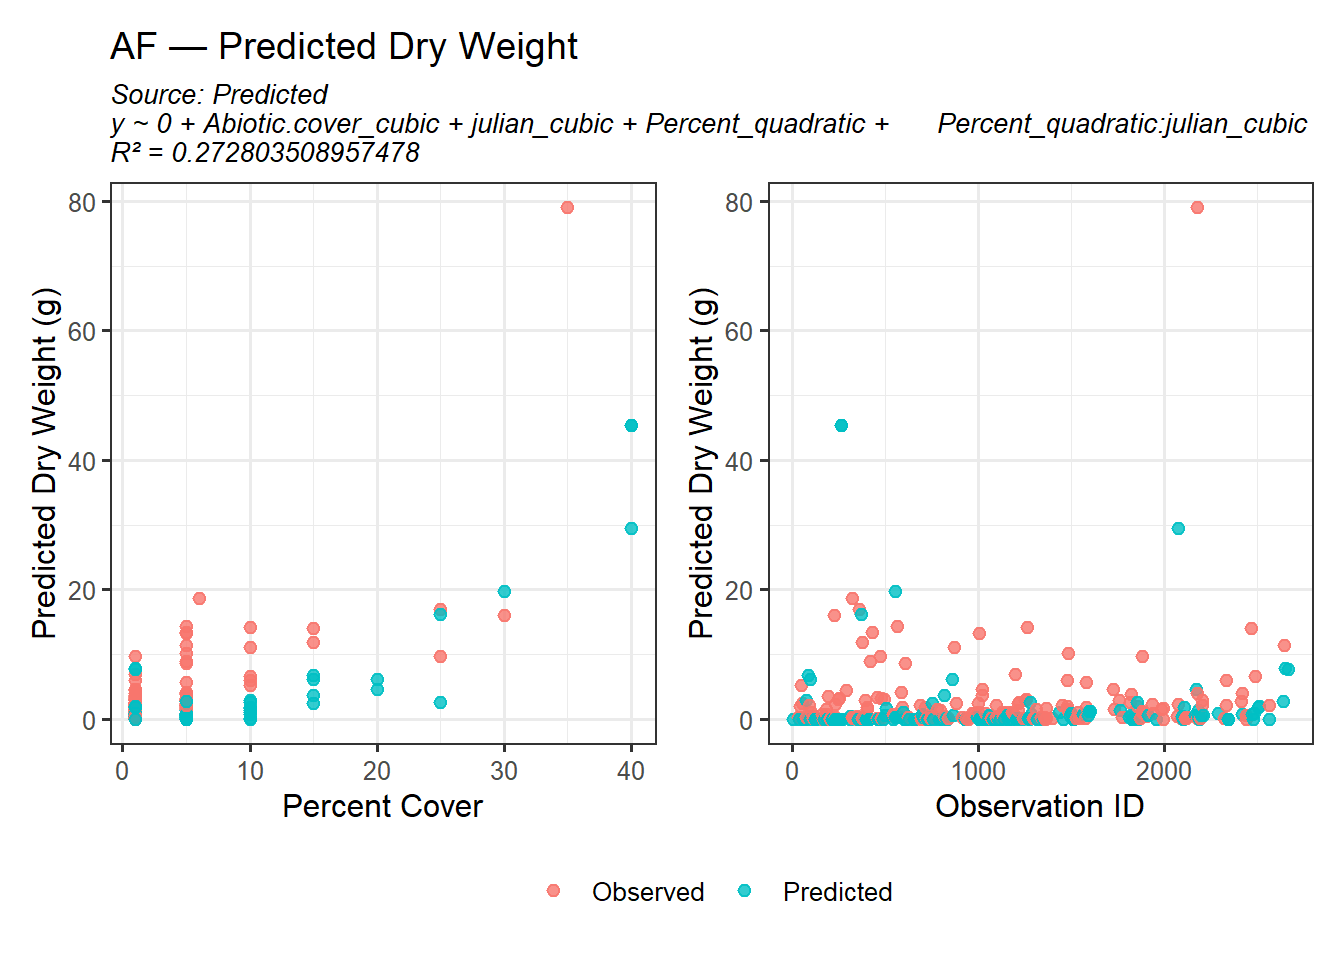
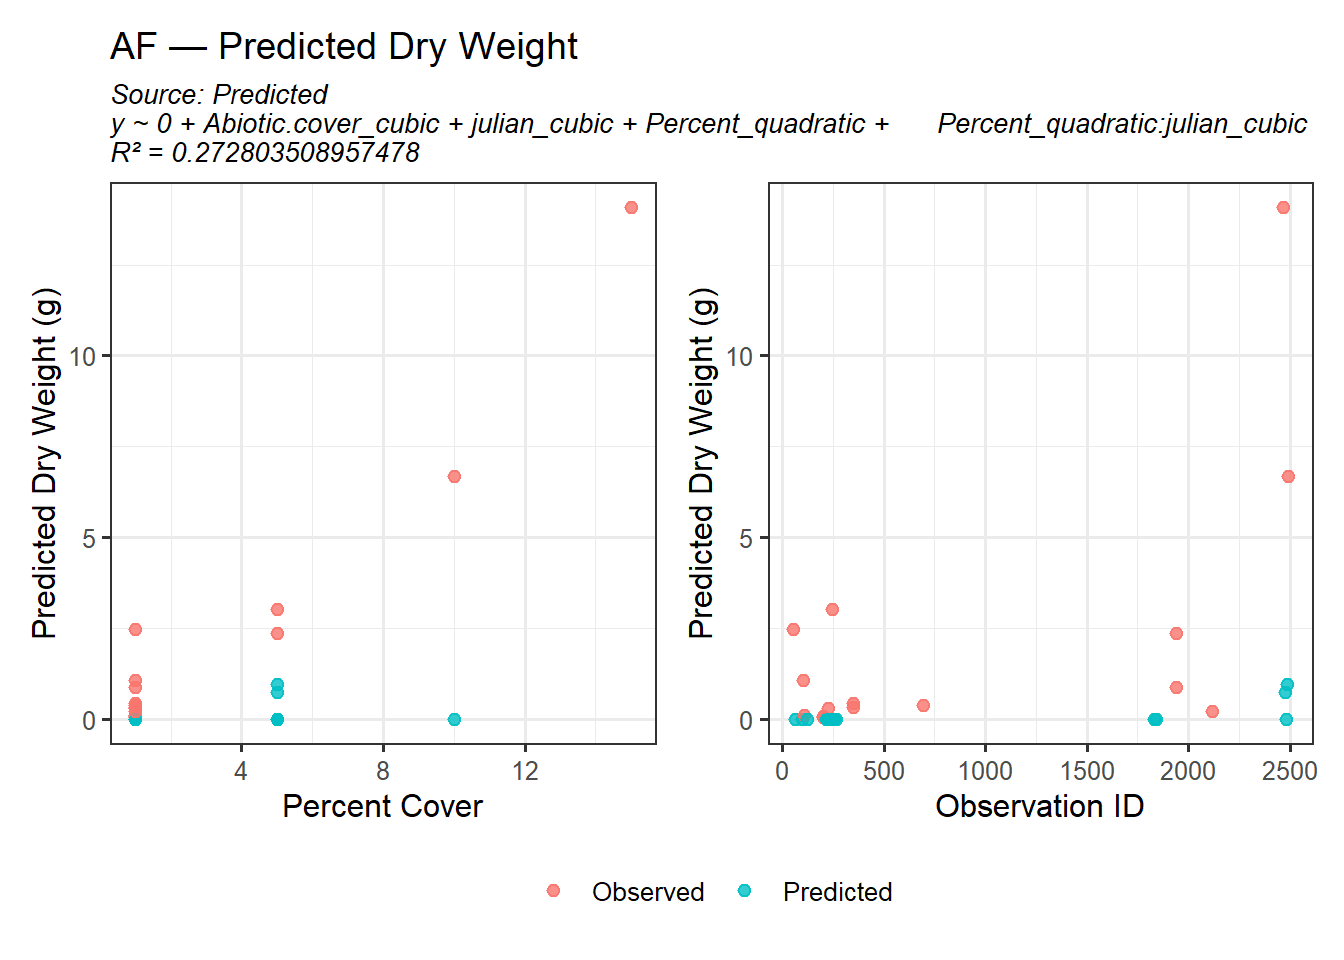
Removed wrong predicted points in AF and PF

diff --git a/docs/posts/post-with-code/edited.biomass.predictions.html b/docs/posts/post-with-code/edited.biomass.predictions.html
@@ -439,68 +439,75 @@ pre > code.sourceCode > span > a:first-child::before { text-decoration: underlin
 <details class="code-fold">
 <summary>Code</summary>
 <div class="sourceCode cell-code" id="cb4"><pre class="sourceCode r code-with-copy"><code class="sourceCode r"><span id="cb4-1"><a href="#cb4-1" aria-hidden="true" tabindex="-1"></a>fg_predictions_filtered <span class="ot">&lt;-</span> fg <span class="sc">%&gt;%</span></span>
-<span id="cb4-2"><a href="#cb4-2" aria-hidden="true" tabindex="-1"></a>  <span class="fu">mutate</span>(<span class="at">pred_source =</span> <span class="fu">ifelse</span>(pred_source <span class="sc">==</span> <span class="st">"Model_FunctionalGroup"</span>, <span class="st">"Predicted"</span>, pred_source)) <span class="sc">%&gt;%</span></span>
-<span id="cb4-3"><a href="#cb4-3" aria-hidden="true" tabindex="-1"></a>  <span class="fu">arrange</span>(FunctionalGroup)</span>
-<span id="cb4-4"><a href="#cb4-4" aria-hidden="true" tabindex="-1"></a></span>
-<span id="cb4-5"><a href="#cb4-5" aria-hidden="true" tabindex="-1"></a>plot_fg_predictions <span class="ot">&lt;-</span> <span class="cf">function</span>(fg_name, predictions, <span class="at">save_plots =</span> <span class="cn">FALSE</span>) {</span>
-<span id="cb4-6"><a href="#cb4-6" aria-hidden="true" tabindex="-1"></a>  </span>
-<span id="cb4-7"><a href="#cb4-7" aria-hidden="true" tabindex="-1"></a>  <span class="co"># Filter for this functional group</span></span>
-<span id="cb4-8"><a href="#cb4-8" aria-hidden="true" tabindex="-1"></a>  dat <span class="ot">&lt;-</span> predictions <span class="sc">%&gt;%</span> <span class="fu">filter</span>(FunctionalGroup <span class="sc">==</span> fg_name)</span>
-<span id="cb4-9"><a href="#cb4-9" aria-hidden="true" tabindex="-1"></a>  </span>
-<span id="cb4-10"><a href="#cb4-10" aria-hidden="true" tabindex="-1"></a>  <span class="co"># Prepare annotation text</span></span>
-<span id="cb4-11"><a href="#cb4-11" aria-hidden="true" tabindex="-1"></a>  formula_text <span class="ot">&lt;-</span> <span class="fu">unique</span>(dat<span class="sc">$</span>formula[dat<span class="sc">$</span>pred_source <span class="sc">==</span> <span class="st">"Predicted"</span>])</span>
-<span id="cb4-12"><a href="#cb4-12" aria-hidden="true" tabindex="-1"></a>  r2_text      <span class="ot">&lt;-</span> <span class="fu">unique</span>(dat<span class="sc">$</span>R2[dat<span class="sc">$</span>pred_source <span class="sc">==</span> <span class="st">"Predicted"</span>])</span>
-<span id="cb4-13"><a href="#cb4-13" aria-hidden="true" tabindex="-1"></a>  pred_source_text <span class="ot">&lt;-</span> <span class="fu">unique</span>(dat<span class="sc">$</span>pred_source[dat<span class="sc">$</span>pred_source <span class="sc">==</span> <span class="st">"Predicted"</span>])</span>
-<span id="cb4-14"><a href="#cb4-14" aria-hidden="true" tabindex="-1"></a>  </span>
-<span id="cb4-15"><a href="#cb4-15" aria-hidden="true" tabindex="-1"></a>  annotation_text <span class="ot">&lt;-</span> <span class="cf">if</span> (<span class="fu">length</span>(formula_text) <span class="sc">&gt;</span> <span class="dv">0</span>) {</span>
-<span id="cb4-16"><a href="#cb4-16" aria-hidden="true" tabindex="-1"></a>    <span class="fu">glue</span>(<span class="st">"Source: {pred_source_text}</span><span class="sc">\n</span><span class="st">{formula_text}</span><span class="sc">\n</span><span class="st">R² = {r2_text}"</span>)</span>
-<span id="cb4-17"><a href="#cb4-17" aria-hidden="true" tabindex="-1"></a>  } <span class="cf">else</span> {</span>
-<span id="cb4-18"><a href="#cb4-18" aria-hidden="true" tabindex="-1"></a>    <span class="st">""</span></span>
-<span id="cb4-19"><a href="#cb4-19" aria-hidden="true" tabindex="-1"></a>  }</span>
-<span id="cb4-20"><a href="#cb4-20" aria-hidden="true" tabindex="-1"></a>  </span>
-<span id="cb4-21"><a href="#cb4-21" aria-hidden="true" tabindex="-1"></a>  <span class="co"># Base theme</span></span>
-<span id="cb4-22"><a href="#cb4-22" aria-hidden="true" tabindex="-1"></a>  base_theme <span class="ot">&lt;-</span> <span class="fu">theme_bw</span>(<span class="at">base_size =</span> <span class="dv">12</span>) <span class="sc">+</span></span>
-<span id="cb4-23"><a href="#cb4-23" aria-hidden="true" tabindex="-1"></a>    <span class="fu">theme</span>(</span>
-<span id="cb4-24"><a href="#cb4-24" aria-hidden="true" tabindex="-1"></a>      <span class="at">legend.title =</span> <span class="fu">element_blank</span>(),</span>
-<span id="cb4-25"><a href="#cb4-25" aria-hidden="true" tabindex="-1"></a>      <span class="at">plot.subtitle =</span> <span class="fu">element_text</span>(<span class="at">size =</span> <span class="dv">10</span>, <span class="at">face =</span> <span class="st">"italic"</span>)</span>
-<span id="cb4-26"><a href="#cb4-26" aria-hidden="true" tabindex="-1"></a>    )</span>
+<span id="cb4-2"><a href="#cb4-2" aria-hidden="true" tabindex="-1"></a>  <span class="fu">mutate</span>(</span>
+<span id="cb4-3"><a href="#cb4-3" aria-hidden="true" tabindex="-1"></a>    <span class="at">pred_source =</span> <span class="fu">ifelse</span>(pred_source <span class="sc">==</span> <span class="st">"Model_FunctionalGroup"</span>, <span class="st">"Predicted"</span>, pred_source)</span>
+<span id="cb4-4"><a href="#cb4-4" aria-hidden="true" tabindex="-1"></a>  ) <span class="sc">%&gt;%</span></span>
+<span id="cb4-5"><a href="#cb4-5" aria-hidden="true" tabindex="-1"></a>  <span class="fu">filter</span>(Spp <span class="sc">%in%</span> <span class="fu">c</span>(</span>
+<span id="cb4-6"><a href="#cb4-6" aria-hidden="true" tabindex="-1"></a>    <span class="st">"HOUM_ENTIRE"</span>, <span class="st">"COPA3_ENTIRE"</span>, <span class="st">"EQHY_ENTIRE"</span>, <span class="st">"HYCA4_ENTIRE"</span>,</span>
+<span id="cb4-7"><a href="#cb4-7" aria-hidden="true" tabindex="-1"></a>    <span class="st">"PHHE2_ENTIRE"</span>, <span class="st">"MIGU_ENTIRE"</span>, <span class="st">"CLLI2_ENTIRE"</span>, <span class="st">"POGLG4_ENTIRE"</span>,</span>
+<span id="cb4-8"><a href="#cb4-8" aria-hidden="true" tabindex="-1"></a>    <span class="st">"SANI5_ENTIRE"</span>, <span class="st">"VETH_ENTIRE"</span></span>
+<span id="cb4-9"><a href="#cb4-9" aria-hidden="true" tabindex="-1"></a>  )) <span class="sc">%&gt;%</span></span>
+<span id="cb4-10"><a href="#cb4-10" aria-hidden="true" tabindex="-1"></a>  <span class="fu">arrange</span>(FunctionalGroup)</span>
+<span id="cb4-11"><a href="#cb4-11" aria-hidden="true" tabindex="-1"></a></span>
+<span id="cb4-12"><a href="#cb4-12" aria-hidden="true" tabindex="-1"></a>plot_fg_predictions <span class="ot">&lt;-</span> <span class="cf">function</span>(fg_name, predictions, <span class="at">save_plots =</span> <span class="cn">FALSE</span>) {</span>
+<span id="cb4-13"><a href="#cb4-13" aria-hidden="true" tabindex="-1"></a>  </span>
+<span id="cb4-14"><a href="#cb4-14" aria-hidden="true" tabindex="-1"></a>  <span class="co"># Filter for this functional group</span></span>
+<span id="cb4-15"><a href="#cb4-15" aria-hidden="true" tabindex="-1"></a>  dat <span class="ot">&lt;-</span> predictions <span class="sc">%&gt;%</span> <span class="fu">filter</span>(FunctionalGroup <span class="sc">==</span> fg_name)</span>
+<span id="cb4-16"><a href="#cb4-16" aria-hidden="true" tabindex="-1"></a>  </span>
+<span id="cb4-17"><a href="#cb4-17" aria-hidden="true" tabindex="-1"></a>  <span class="co"># Prepare annotation text</span></span>
+<span id="cb4-18"><a href="#cb4-18" aria-hidden="true" tabindex="-1"></a>  formula_text <span class="ot">&lt;-</span> <span class="fu">unique</span>(dat<span class="sc">$</span>formula[dat<span class="sc">$</span>pred_source <span class="sc">==</span> <span class="st">"Predicted"</span>])</span>
+<span id="cb4-19"><a href="#cb4-19" aria-hidden="true" tabindex="-1"></a>  r2_text      <span class="ot">&lt;-</span> <span class="fu">unique</span>(dat<span class="sc">$</span>R2[dat<span class="sc">$</span>pred_source <span class="sc">==</span> <span class="st">"Predicted"</span>])</span>
+<span id="cb4-20"><a href="#cb4-20" aria-hidden="true" tabindex="-1"></a>  pred_source_text <span class="ot">&lt;-</span> <span class="fu">unique</span>(dat<span class="sc">$</span>pred_source[dat<span class="sc">$</span>pred_source <span class="sc">==</span> <span class="st">"Predicted"</span>])</span>
+<span id="cb4-21"><a href="#cb4-21" aria-hidden="true" tabindex="-1"></a>  </span>
+<span id="cb4-22"><a href="#cb4-22" aria-hidden="true" tabindex="-1"></a>  annotation_text <span class="ot">&lt;-</span> <span class="cf">if</span> (<span class="fu">length</span>(formula_text) <span class="sc">&gt;</span> <span class="dv">0</span>) {</span>
+<span id="cb4-23"><a href="#cb4-23" aria-hidden="true" tabindex="-1"></a>    <span class="fu">glue</span>(<span class="st">"Source: {pred_source_text}</span><span class="sc">\n</span><span class="st">{formula_text}</span><span class="sc">\n</span><span class="st">R² = {r2_text}"</span>)</span>
+<span id="cb4-24"><a href="#cb4-24" aria-hidden="true" tabindex="-1"></a>  } <span class="cf">else</span> {</span>
+<span id="cb4-25"><a href="#cb4-25" aria-hidden="true" tabindex="-1"></a>    <span class="st">""</span></span>
+<span id="cb4-26"><a href="#cb4-26" aria-hidden="true" tabindex="-1"></a>  }</span>
 <span id="cb4-27"><a href="#cb4-27" aria-hidden="true" tabindex="-1"></a>  </span>
-<span id="cb4-28"><a href="#cb4-28" aria-hidden="true" tabindex="-1"></a>  <span class="co"># Plot 1: pred_DryWeight vs Percent</span></span>
-<span id="cb4-29"><a href="#cb4-29" aria-hidden="true" tabindex="-1"></a>  p1 <span class="ot">&lt;-</span> <span class="fu">ggplot</span>(dat, <span class="fu">aes</span>(<span class="at">x =</span> Percent, <span class="at">y =</span> pred_DryWeight, <span class="at">color =</span> pred_source)) <span class="sc">+</span></span>
-<span id="cb4-30"><a href="#cb4-30" aria-hidden="true" tabindex="-1"></a>    <span class="fu">geom_point</span>(<span class="at">size =</span> <span class="dv">2</span>, <span class="at">alpha =</span> <span class="fl">0.8</span>) <span class="sc">+</span></span>
-<span id="cb4-31"><a href="#cb4-31" aria-hidden="true" tabindex="-1"></a>    <span class="fu">labs</span>(</span>
-<span id="cb4-32"><a href="#cb4-32" aria-hidden="true" tabindex="-1"></a>      <span class="at">title =</span> <span class="fu">glue</span>(<span class="st">"{fg_name} — Predicted Dry Weight"</span>),</span>
-<span id="cb4-33"><a href="#cb4-33" aria-hidden="true" tabindex="-1"></a>      <span class="at">subtitle =</span> annotation_text,</span>
-<span id="cb4-34"><a href="#cb4-34" aria-hidden="true" tabindex="-1"></a>      <span class="at">x =</span> <span class="st">"Percent Cover"</span>,</span>
-<span id="cb4-35"><a href="#cb4-35" aria-hidden="true" tabindex="-1"></a>      <span class="at">y =</span> <span class="st">"Predicted Dry Weight (g)"</span></span>
-<span id="cb4-36"><a href="#cb4-36" aria-hidden="true" tabindex="-1"></a>    ) <span class="sc">+</span></span>
-<span id="cb4-37"><a href="#cb4-37" aria-hidden="true" tabindex="-1"></a>    base_theme</span>
-<span id="cb4-38"><a href="#cb4-38" aria-hidden="true" tabindex="-1"></a>  </span>
-<span id="cb4-39"><a href="#cb4-39" aria-hidden="true" tabindex="-1"></a>  <span class="co"># Plot 2: pred_DryWeight vs ID</span></span>
-<span id="cb4-40"><a href="#cb4-40" aria-hidden="true" tabindex="-1"></a>  p2 <span class="ot">&lt;-</span> <span class="fu">ggplot</span>(dat, <span class="fu">aes</span>(<span class="at">x =</span> ID, <span class="at">y =</span> pred_DryWeight, <span class="at">color =</span> pred_source)) <span class="sc">+</span></span>
-<span id="cb4-41"><a href="#cb4-41" aria-hidden="true" tabindex="-1"></a>    <span class="fu">geom_point</span>(<span class="at">size =</span> <span class="dv">2</span>, <span class="at">alpha =</span> <span class="fl">0.8</span>) <span class="sc">+</span></span>
-<span id="cb4-42"><a href="#cb4-42" aria-hidden="true" tabindex="-1"></a>    <span class="fu">labs</span>(</span>
-<span id="cb4-43"><a href="#cb4-43" aria-hidden="true" tabindex="-1"></a>      <span class="at">x =</span> <span class="st">"Observation ID"</span>,</span>
-<span id="cb4-44"><a href="#cb4-44" aria-hidden="true" tabindex="-1"></a>      <span class="at">y =</span> <span class="st">"Predicted Dry Weight (g)"</span></span>
-<span id="cb4-45"><a href="#cb4-45" aria-hidden="true" tabindex="-1"></a>    ) <span class="sc">+</span></span>
-<span id="cb4-46"><a href="#cb4-46" aria-hidden="true" tabindex="-1"></a>    base_theme</span>
-<span id="cb4-47"><a href="#cb4-47" aria-hidden="true" tabindex="-1"></a>  </span>
-<span id="cb4-48"><a href="#cb4-48" aria-hidden="true" tabindex="-1"></a>  <span class="co"># Combine plots</span></span>
-<span id="cb4-49"><a href="#cb4-49" aria-hidden="true" tabindex="-1"></a>  combined_plot <span class="ot">&lt;-</span> p1 <span class="sc">+</span> p2 <span class="sc">+</span> </span>
-<span id="cb4-50"><a href="#cb4-50" aria-hidden="true" tabindex="-1"></a>    <span class="fu">plot_layout</span>(<span class="at">guides =</span> <span class="st">"collect"</span>) <span class="sc">&amp;</span> </span>
-<span id="cb4-51"><a href="#cb4-51" aria-hidden="true" tabindex="-1"></a>    <span class="fu">theme</span>(<span class="at">legend.position =</span> <span class="st">"bottom"</span>, <span class="at">legend.direction =</span> <span class="st">"horizontal"</span>)</span>
-<span id="cb4-52"><a href="#cb4-52" aria-hidden="true" tabindex="-1"></a>  </span>
-<span id="cb4-53"><a href="#cb4-53" aria-hidden="true" tabindex="-1"></a>  <span class="co"># Save or display</span></span>
-<span id="cb4-54"><a href="#cb4-54" aria-hidden="true" tabindex="-1"></a>  <span class="cf">if</span> (save_plots) {</span>
-<span id="cb4-55"><a href="#cb4-55" aria-hidden="true" tabindex="-1"></a>    <span class="fu">ggsave</span>(<span class="fu">glue</span>(<span class="st">"plots/{fg_name}_pred_plot.png"</span>),</span>
-<span id="cb4-56"><a href="#cb4-56" aria-hidden="true" tabindex="-1"></a>           combined_plot, <span class="at">width =</span> <span class="dv">10</span>, <span class="at">height =</span> <span class="dv">5</span>, <span class="at">dpi =</span> <span class="dv">300</span>)</span>
-<span id="cb4-57"><a href="#cb4-57" aria-hidden="true" tabindex="-1"></a>  } <span class="cf">else</span> {</span>
-<span id="cb4-58"><a href="#cb4-58" aria-hidden="true" tabindex="-1"></a>    <span class="fu">print</span>(combined_plot)</span>
-<span id="cb4-59"><a href="#cb4-59" aria-hidden="true" tabindex="-1"></a>  }</span>
-<span id="cb4-60"><a href="#cb4-60" aria-hidden="true" tabindex="-1"></a>}</span>
-<span id="cb4-61"><a href="#cb4-61" aria-hidden="true" tabindex="-1"></a></span>
-<span id="cb4-62"><a href="#cb4-62" aria-hidden="true" tabindex="-1"></a><span class="fu">walk</span>(<span class="fu">unique</span>(fg_predictions_filtered<span class="sc">$</span>FunctionalGroup),</span>
-<span id="cb4-63"><a href="#cb4-63" aria-hidden="true" tabindex="-1"></a>     <span class="sc">~</span><span class="fu">plot_fg_predictions</span>(.x, fg_predictions_filtered))</span></code><button title="Copy to Clipboard" class="code-copy-button"><i class="bi"></i></button></pre></div>
+<span id="cb4-28"><a href="#cb4-28" aria-hidden="true" tabindex="-1"></a>  <span class="co"># Base theme</span></span>
+<span id="cb4-29"><a href="#cb4-29" aria-hidden="true" tabindex="-1"></a>  base_theme <span class="ot">&lt;-</span> <span class="fu">theme_bw</span>(<span class="at">base_size =</span> <span class="dv">12</span>) <span class="sc">+</span></span>
+<span id="cb4-30"><a href="#cb4-30" aria-hidden="true" tabindex="-1"></a>    <span class="fu">theme</span>(</span>
+<span id="cb4-31"><a href="#cb4-31" aria-hidden="true" tabindex="-1"></a>      <span class="at">legend.title =</span> <span class="fu">element_blank</span>(),</span>
+<span id="cb4-32"><a href="#cb4-32" aria-hidden="true" tabindex="-1"></a>      <span class="at">plot.subtitle =</span> <span class="fu">element_text</span>(<span class="at">size =</span> <span class="dv">10</span>, <span class="at">face =</span> <span class="st">"italic"</span>)</span>
+<span id="cb4-33"><a href="#cb4-33" aria-hidden="true" tabindex="-1"></a>    )</span>
+<span id="cb4-34"><a href="#cb4-34" aria-hidden="true" tabindex="-1"></a>  </span>
+<span id="cb4-35"><a href="#cb4-35" aria-hidden="true" tabindex="-1"></a>  <span class="co"># Plot 1: pred_DryWeight vs Percent</span></span>
+<span id="cb4-36"><a href="#cb4-36" aria-hidden="true" tabindex="-1"></a>  p1 <span class="ot">&lt;-</span> <span class="fu">ggplot</span>(dat, <span class="fu">aes</span>(<span class="at">x =</span> Percent, <span class="at">y =</span> pred_DryWeight, <span class="at">color =</span> pred_source)) <span class="sc">+</span></span>
+<span id="cb4-37"><a href="#cb4-37" aria-hidden="true" tabindex="-1"></a>    <span class="fu">geom_point</span>(<span class="at">size =</span> <span class="dv">2</span>, <span class="at">alpha =</span> <span class="fl">0.8</span>) <span class="sc">+</span></span>
+<span id="cb4-38"><a href="#cb4-38" aria-hidden="true" tabindex="-1"></a>    <span class="fu">labs</span>(</span>
+<span id="cb4-39"><a href="#cb4-39" aria-hidden="true" tabindex="-1"></a>      <span class="at">title =</span> <span class="fu">glue</span>(<span class="st">"{fg_name} — Predicted Dry Weight"</span>),</span>
+<span id="cb4-40"><a href="#cb4-40" aria-hidden="true" tabindex="-1"></a>      <span class="at">subtitle =</span> annotation_text,</span>
+<span id="cb4-41"><a href="#cb4-41" aria-hidden="true" tabindex="-1"></a>      <span class="at">x =</span> <span class="st">"Percent Cover"</span>,</span>
+<span id="cb4-42"><a href="#cb4-42" aria-hidden="true" tabindex="-1"></a>      <span class="at">y =</span> <span class="st">"Predicted Dry Weight (g)"</span></span>
+<span id="cb4-43"><a href="#cb4-43" aria-hidden="true" tabindex="-1"></a>    ) <span class="sc">+</span></span>
+<span id="cb4-44"><a href="#cb4-44" aria-hidden="true" tabindex="-1"></a>    base_theme</span>
+<span id="cb4-45"><a href="#cb4-45" aria-hidden="true" tabindex="-1"></a>  </span>
+<span id="cb4-46"><a href="#cb4-46" aria-hidden="true" tabindex="-1"></a>  <span class="co"># Plot 2: pred_DryWeight vs ID</span></span>
+<span id="cb4-47"><a href="#cb4-47" aria-hidden="true" tabindex="-1"></a>  p2 <span class="ot">&lt;-</span> <span class="fu">ggplot</span>(dat, <span class="fu">aes</span>(<span class="at">x =</span> ID, <span class="at">y =</span> pred_DryWeight, <span class="at">color =</span> pred_source)) <span class="sc">+</span></span>
+<span id="cb4-48"><a href="#cb4-48" aria-hidden="true" tabindex="-1"></a>    <span class="fu">geom_point</span>(<span class="at">size =</span> <span class="dv">2</span>, <span class="at">alpha =</span> <span class="fl">0.8</span>) <span class="sc">+</span></span>
+<span id="cb4-49"><a href="#cb4-49" aria-hidden="true" tabindex="-1"></a>    <span class="fu">labs</span>(</span>
+<span id="cb4-50"><a href="#cb4-50" aria-hidden="true" tabindex="-1"></a>      <span class="at">x =</span> <span class="st">"Observation ID"</span>,</span>
+<span id="cb4-51"><a href="#cb4-51" aria-hidden="true" tabindex="-1"></a>      <span class="at">y =</span> <span class="st">"Predicted Dry Weight (g)"</span></span>
+<span id="cb4-52"><a href="#cb4-52" aria-hidden="true" tabindex="-1"></a>    ) <span class="sc">+</span></span>
+<span id="cb4-53"><a href="#cb4-53" aria-hidden="true" tabindex="-1"></a>    base_theme</span>
+<span id="cb4-54"><a href="#cb4-54" aria-hidden="true" tabindex="-1"></a>  </span>
+<span id="cb4-55"><a href="#cb4-55" aria-hidden="true" tabindex="-1"></a>  <span class="co"># Combine plots</span></span>
+<span id="cb4-56"><a href="#cb4-56" aria-hidden="true" tabindex="-1"></a>  combined_plot <span class="ot">&lt;-</span> p1 <span class="sc">+</span> p2 <span class="sc">+</span> </span>
+<span id="cb4-57"><a href="#cb4-57" aria-hidden="true" tabindex="-1"></a>    <span class="fu">plot_layout</span>(<span class="at">guides =</span> <span class="st">"collect"</span>) <span class="sc">&amp;</span> </span>
+<span id="cb4-58"><a href="#cb4-58" aria-hidden="true" tabindex="-1"></a>    <span class="fu">theme</span>(<span class="at">legend.position =</span> <span class="st">"bottom"</span>, <span class="at">legend.direction =</span> <span class="st">"horizontal"</span>)</span>
+<span id="cb4-59"><a href="#cb4-59" aria-hidden="true" tabindex="-1"></a>  </span>
+<span id="cb4-60"><a href="#cb4-60" aria-hidden="true" tabindex="-1"></a>  <span class="co"># Save or display</span></span>
+<span id="cb4-61"><a href="#cb4-61" aria-hidden="true" tabindex="-1"></a>  <span class="cf">if</span> (save_plots) {</span>
+<span id="cb4-62"><a href="#cb4-62" aria-hidden="true" tabindex="-1"></a>    <span class="fu">ggsave</span>(<span class="fu">glue</span>(<span class="st">"plots/{fg_name}_pred_plot.png"</span>),</span>
+<span id="cb4-63"><a href="#cb4-63" aria-hidden="true" tabindex="-1"></a>           combined_plot, <span class="at">width =</span> <span class="dv">10</span>, <span class="at">height =</span> <span class="dv">5</span>, <span class="at">dpi =</span> <span class="dv">300</span>)</span>
+<span id="cb4-64"><a href="#cb4-64" aria-hidden="true" tabindex="-1"></a>  } <span class="cf">else</span> {</span>
+<span id="cb4-65"><a href="#cb4-65" aria-hidden="true" tabindex="-1"></a>    <span class="fu">print</span>(combined_plot)</span>
+<span id="cb4-66"><a href="#cb4-66" aria-hidden="true" tabindex="-1"></a>  }</span>
+<span id="cb4-67"><a href="#cb4-67" aria-hidden="true" tabindex="-1"></a>}</span>
+<span id="cb4-68"><a href="#cb4-68" aria-hidden="true" tabindex="-1"></a></span>
+<span id="cb4-69"><a href="#cb4-69" aria-hidden="true" tabindex="-1"></a><span class="fu">walk</span>(<span class="fu">unique</span>(fg_predictions_filtered<span class="sc">$</span>FunctionalGroup),</span>
+<span id="cb4-70"><a href="#cb4-70" aria-hidden="true" tabindex="-1"></a>     <span class="sc">~</span><span class="fu">plot_fg_predictions</span>(.x, fg_predictions_filtered))</span></code><button title="Copy to Clipboard" class="code-copy-button"><i class="bi"></i></button></pre></div>
 </details>
 <div class="cell-output-display">
 <div>

diff --git a/docs/index.html b/docs/index.html
@@ -206,7 +206,7 @@ window.Quarto = {
 
 <div class="quarto-listing quarto-listing-container-default" id="listing-listing">
 <div class="list quarto-listing-default">
-<div class="quarto-post image-right" data-index="0" data-listing-date-sort="1763625600000" data-listing-file-modified-sort="1763686492537" data-listing-date-modified-sort="NaN" data-listing-reading-time-sort="6" data-listing-word-count-sort="1151">
+<div class="quarto-post image-right" data-index="0" data-listing-date-sort="1763625600000" data-listing-file-modified-sort="1763687418186" data-listing-date-modified-sort="NaN" data-listing-reading-time-sort="6" data-listing-word-count-sort="1183">
 <div class="thumbnail"><a href="./posts/post-with-code/edited.biomass.predictions.html" class="no-external">
 
 <p class="card-img-top"><img src="posts\post-with-code\edited.biomass.predictions_files\figure-html\unnamed-chunk-2-1.png"  class="thumbnail-image card-img"/></p>
